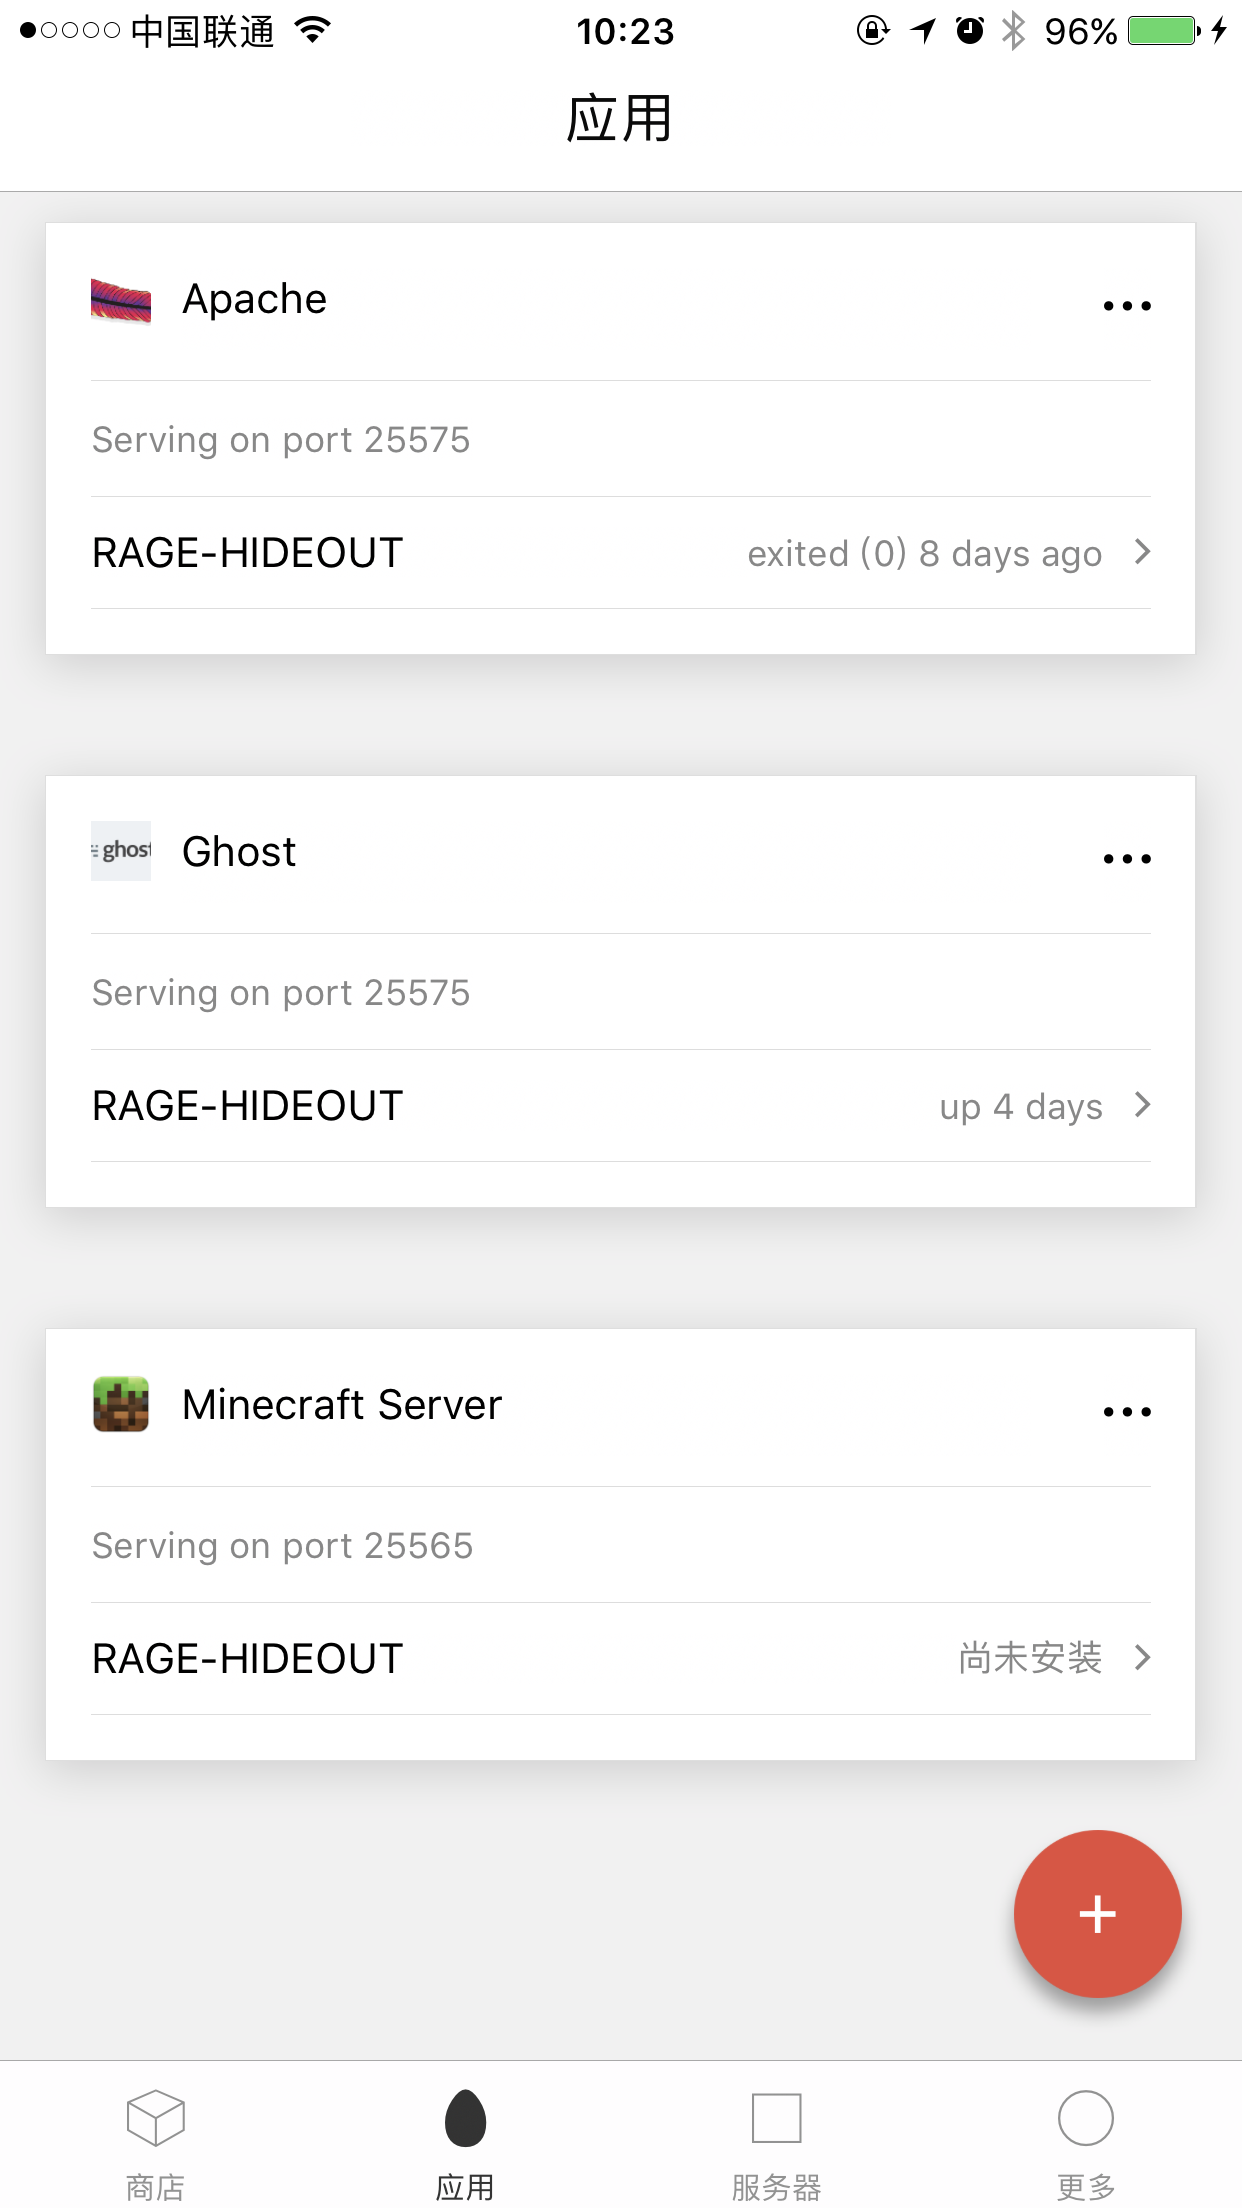
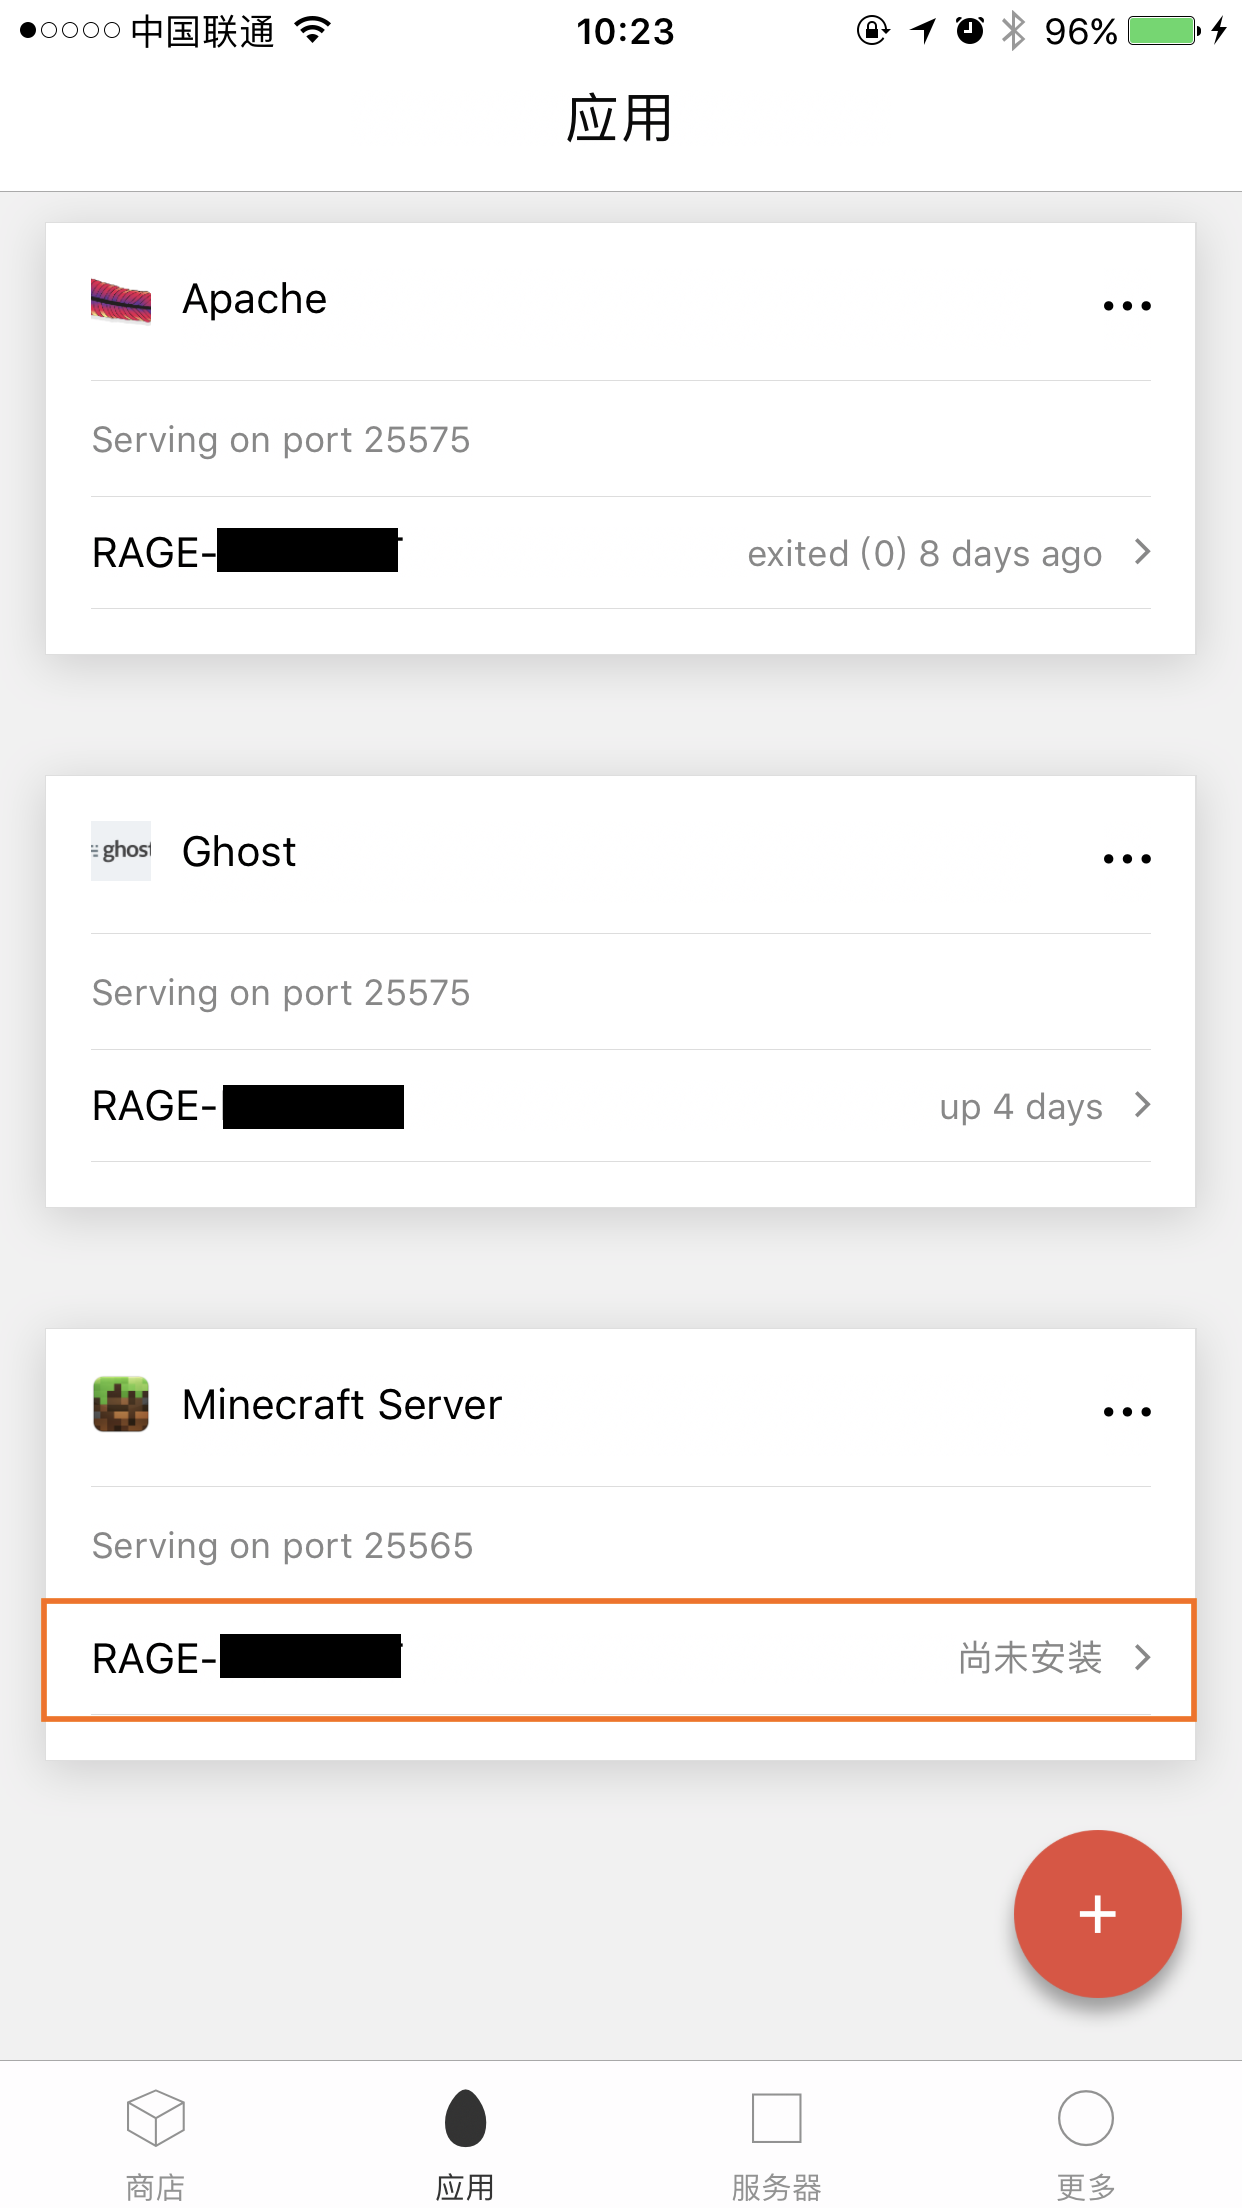
Update Doc
- Link up image contents
- add some mark on some images

diff --git a/zh/RD_MinecraftServerBuilding.md b/zh/RD_MinecraftServerBuilding.md
@@ -13,11 +13,13 @@
 
 1. 首先我们打开自己的HyperApp，然后从`商店`中找到MinecraftServer.
     <!--商店列表图片-->
-    ![shop_img](/images/RD_MinecraftServerBuilding/HYPERAPP_SHOP.PNG)
+    ![hyperApp_shop](../images/RD_MinecraftServerBuilding/HYPERAPP_SHOP.PNG)
 2. 选中自己的服务器，并创建应用
     <!--应用将要指定服务器的图片-->
+    ![hyperApp_Choose_Server](../images/RD_MinecraftServerBuilding/HYPERAPP_CHOOSE_SERVER.PNG)
 3. 此时会进入一个比较基本的服务器配置界面，从上至下分别为
     <!--配置页面图片-->
+    ![hyperApp_Server_Config_I](../images/RD_MinecraftServerBuilding/HYPERAPP_SERVER_CONFIG_I.PNG)
     >
 ###### 配置 
 ```
@@ -52,17 +54,18 @@ Public Port —— 服务器端口 （链接服务器时使用的端口）
 ###### Volumes —— 目录
 ```
     Data    —— 数据目录（默认就行，这个目录决定了你的服务器相关文件被存储在你远端机器的位置）
-    Mods    —— 模型目录（如果服务器使用Mod，则需要指定Mod路径，默认为Data/mods）
+    Mods    —— 模型目录（默认为Data/mods）
     Config  —— 配置目录（默认为Data/Config）
     Plugins —— 插件目录（默认为Data/plugins）
 ```
 
 4. 本教程中，我们采用 `生存模式`+`简单难度` 的默认配置，点击下一步，会从自己的应用目录中看到创建好的应用，默认状态应该是**尚未安装**。
     <!--应用列表尚未安装的图片-->
-5. 点击箭头，选择安装
+    ![hyperApp_Ready](../images/RD_MinecraftServerBuilding/HYPERAPP_READY.PNG)
+5. 点击方框弹出选项，选择安装
     <!--选择安装前图片-->
+    ![hyperApp_Ready](../images/RD_MinecraftServerBuilding/HYPERAPP_ACTIONSHEET.PNG)
 6. 等待应用安装完成之后，此时的状态应该显示为 **up xxx seconds** ，即服务运行了多长时间
-    <!--安装完成Up之后的图片-->
 
 > 到这一步，你的Minecraft的服务器就已经架设完成了，此时如果使用的是正版的Minecraft，就已经能链接服务器开始玩了，但是很多玩家使用的并不是正版MC，所以接下来将会告诉你如何使用GCP的Web管理终端来进行一些重要的配置，从而让盗版游戏也能链接到自己的服务器。
 
@@ -75,39 +78,50 @@ Public Port —— 服务器端口 （链接服务器时使用的端口）
 > - 关于终端指令，请注意，`$` 符号仅作为命令的标记，不需要输入，例如`$ ls`命令，仅需要输入`ls`即可
 
 1. 首先访问自己的[实例管理页面](:https://console.cloud.google.com/)
-    <!--管理页面截图-->
 2. 选择自己的VM实例
     <!--VM实例选择截图-->
+        ![GCP_VM](../images/RD_MinecraftServerBuilding/GCP_VM.PNG)
 3. 在浏览器窗口中打开SSH
     <!--SSH Web终端载入页面截图-->
+        ![GCP_open_ssh](../images/RD_MinecraftServerBuilding/GCP_OPEN_SSH.PNG)
 4. 经过短（实际上看网络状态）时间的等待之后，你会看见这个页面
     <!--Web 终端起始页面-->
+        ![ssh_login](../images/RD_MinecraftServerBuilding/GCP_SSH_LOGIN.PNG)
 5. 此时，我们**可以**使用root身份来进行后续操作，**也可以**在必要的时候进行`$ sudo`操作，本教程中，将会使用root身份进行操作
 6. 首先我们使用命令 `$ sudo -i`进入root身份，此时可以注意到终端变化
     <!--sudo -i-->
+        ![ssh_sudo_i](../images/RD_MinecraftServerBuilding/GCP_SSH_SUDO_I.PNG)
 7. 然后我们进入Minecraft的服务器存放目录，由于使用的是默认配置，所以命令应该是一样的. 
     
         $ cd /..
         $ cd srv/docker/Minecraft-Server/
 8. 此时我们就已经进入了Minecraft服务器的目录，通过`$ ls`命令，可以看到服务器有这些文件
     <!--ls列表截图-->
+        ![ssh_ls](../images/RD_MinecraftServerBuilding/GCP_SSH_LS.PNG)
 9. 我们需要配置的文件是`server.properties`，在这里，使用`vim`命令来编辑这个文件 （使用`vim`完全是因为我觉得这个比较顺手，如果有编程基础知道其他命令的并不一定要用`vim`）
         
         $ vim server.properties
 
 10. 此时终端会进入`vim`模式，应该显示成这样
     <!--VIM界面截图-->
+        ![vim](../images/RD_MinecraftServerBuilding/GCP_SSH_VIM.PNG)
 11. 如果想使用盗版MC链接服务器，那么服务器需要关闭正版验证，在键盘上按下`i`键进入`INSERT`模式，注意低端文字的变化
     <!--INSERT截图-->
-12. 我们需要修改的地方是这里，将`online-mode=`的`TRUE`更改为`false`来关闭正版验证
+        ![vim_insert](../images/RD_MinecraftServerBuilding/GCP_SSH_VIM_INSERT.PNG)
+12. 我们需要修改的地方是这里，将`online-mode=`的`TRUE`更改为`false`来关闭正版验证，用`方向键`移动光标，把
     <!--online-mode=TRUE-->
+        ![vim_onlinemode_ture](../images/RD_MinecraftServerBuilding/GCP_SSH_VIM_ONLINEMODE_TRUE.PNG)  
+        改成  
+        ![vim_onlinemode_false](../images/RD_MinecraftServerBuilding/GCP_SSH_VIM_ONLINEMODE_FALSE.PNG)
+        
     <!--online-mode=false-->
 
 13. 按下键盘上的`ESC`键，并输入`:wq`来保存，并退出编辑器
     <!--:wq-->
+        ![vim_quit](../images/RD_MinecraftServerBuilding/GCP_SSH_VIM_WQ.PNG)
 14. 此时我们的终端配置就完成了，输入`$ exit`退出root身份，此时会显示`logout`，然后再次输入`$ exit`来退出编辑
     <!--Logout-->
-    
+        ![ssh_logout](../images/RD_MinecraftServerBuilding/GCP_SSH_LOGOUT.PNG)
 > 退出编辑之后窗口会自动关闭，此时web终端的管理就结束了。初级教程中不对server.properties进行过多介绍。
 
 ### 利用HpyerApp重启服务器，并应用新的配置
@@ -116,11 +130,11 @@ Public Port —— 服务器端口 （链接服务器时使用的端口）
 
 1. 首先我们选择`应用`里面的服务器，然后点开菜单
     <!--菜单界面-->
+        ![hyperapp_reboot](../images/RD_MinecraftServerBuilding/HYPERAPP_ACTIONSHEET.PNG)
 2. 选择`重启`，然后等待重启完毕即可
-    <!--重启前截图-->
-    <!--重启完成后截图-->
 
 ### 其他事项
 > - Minecraft服务器默认使用25565端口作为服务端口，同时使用25575作为rcon管理端口，但是本教程中，我们不使用rcon进行管理。
 > - 如果链接服务器之后，提示 `name = null` 这个错误，说明你没有关闭正版验证，请回顾教程
 > - 如果关闭了正版验证，还是无法链接服务器，请检查防火墙是不是没有设置25565端口的通信，设置方法[看这里](https://github.com/waylybaye/HyperApp-Guide/blob/master/Guide/across-wall.md#设置-gce-防火墙)
+> - 请注意客户端版本和服务器版本一致性的问题，版本不一致也可能会导致链接问题
